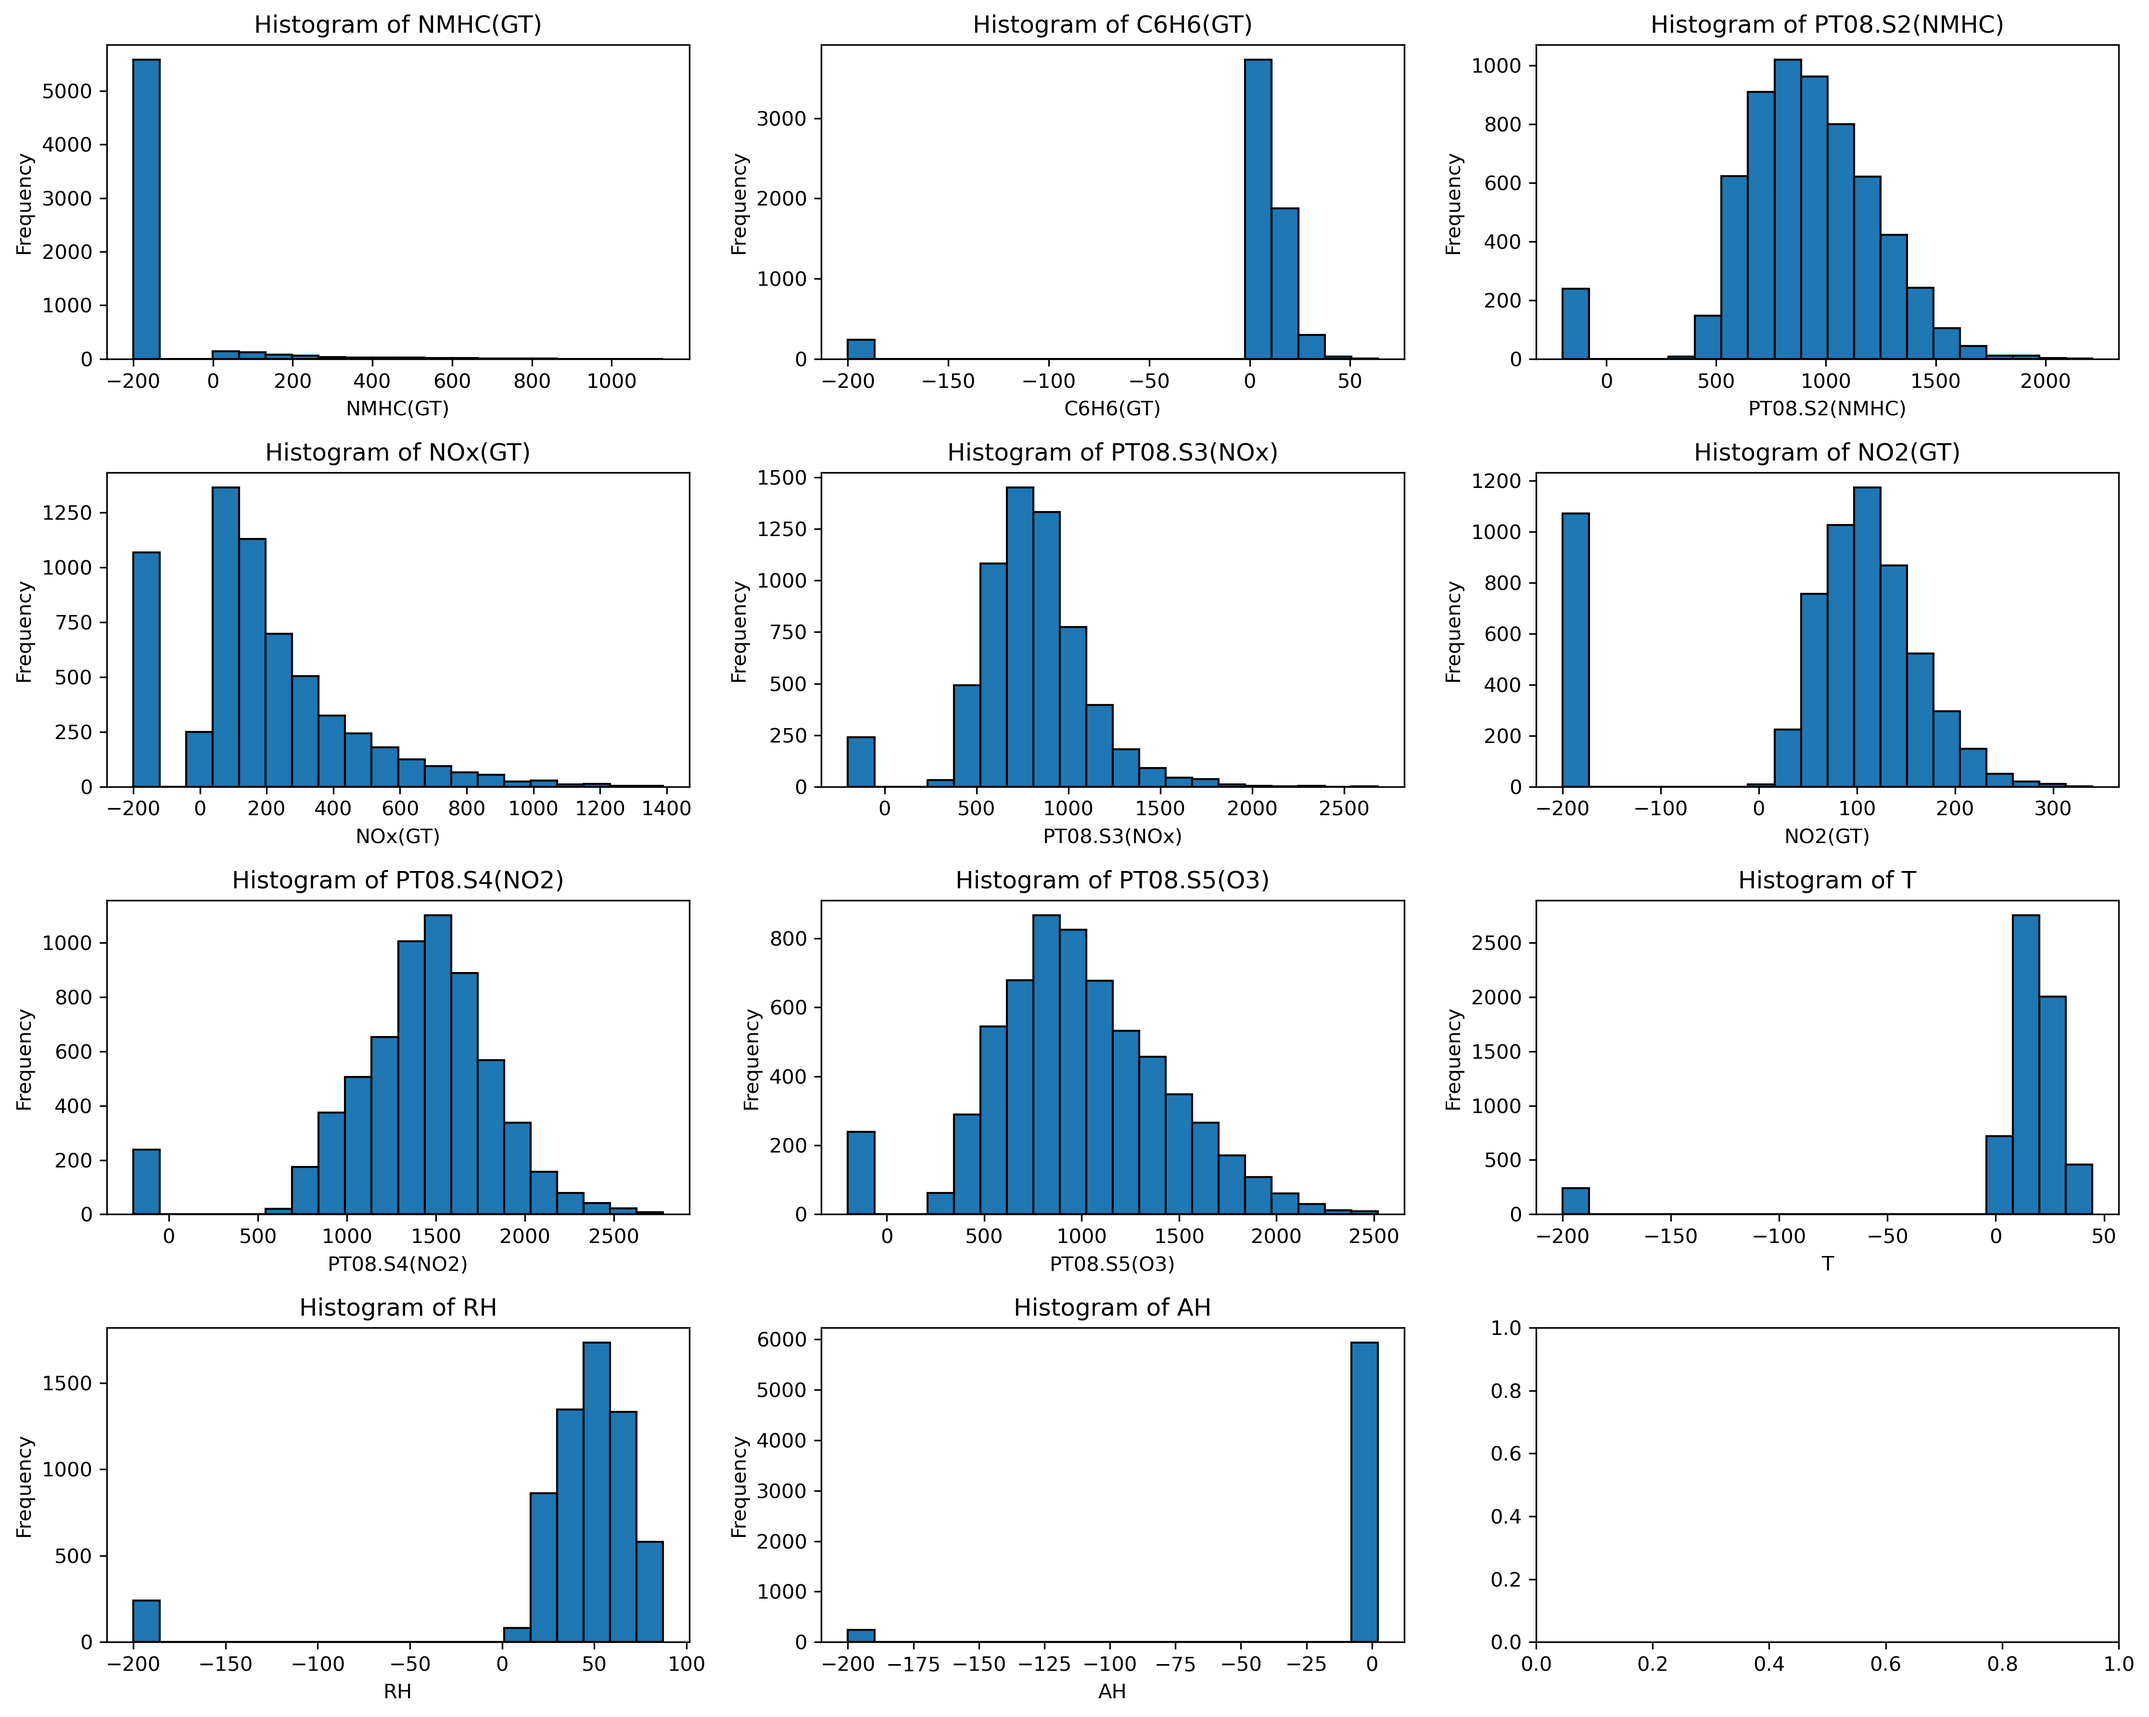
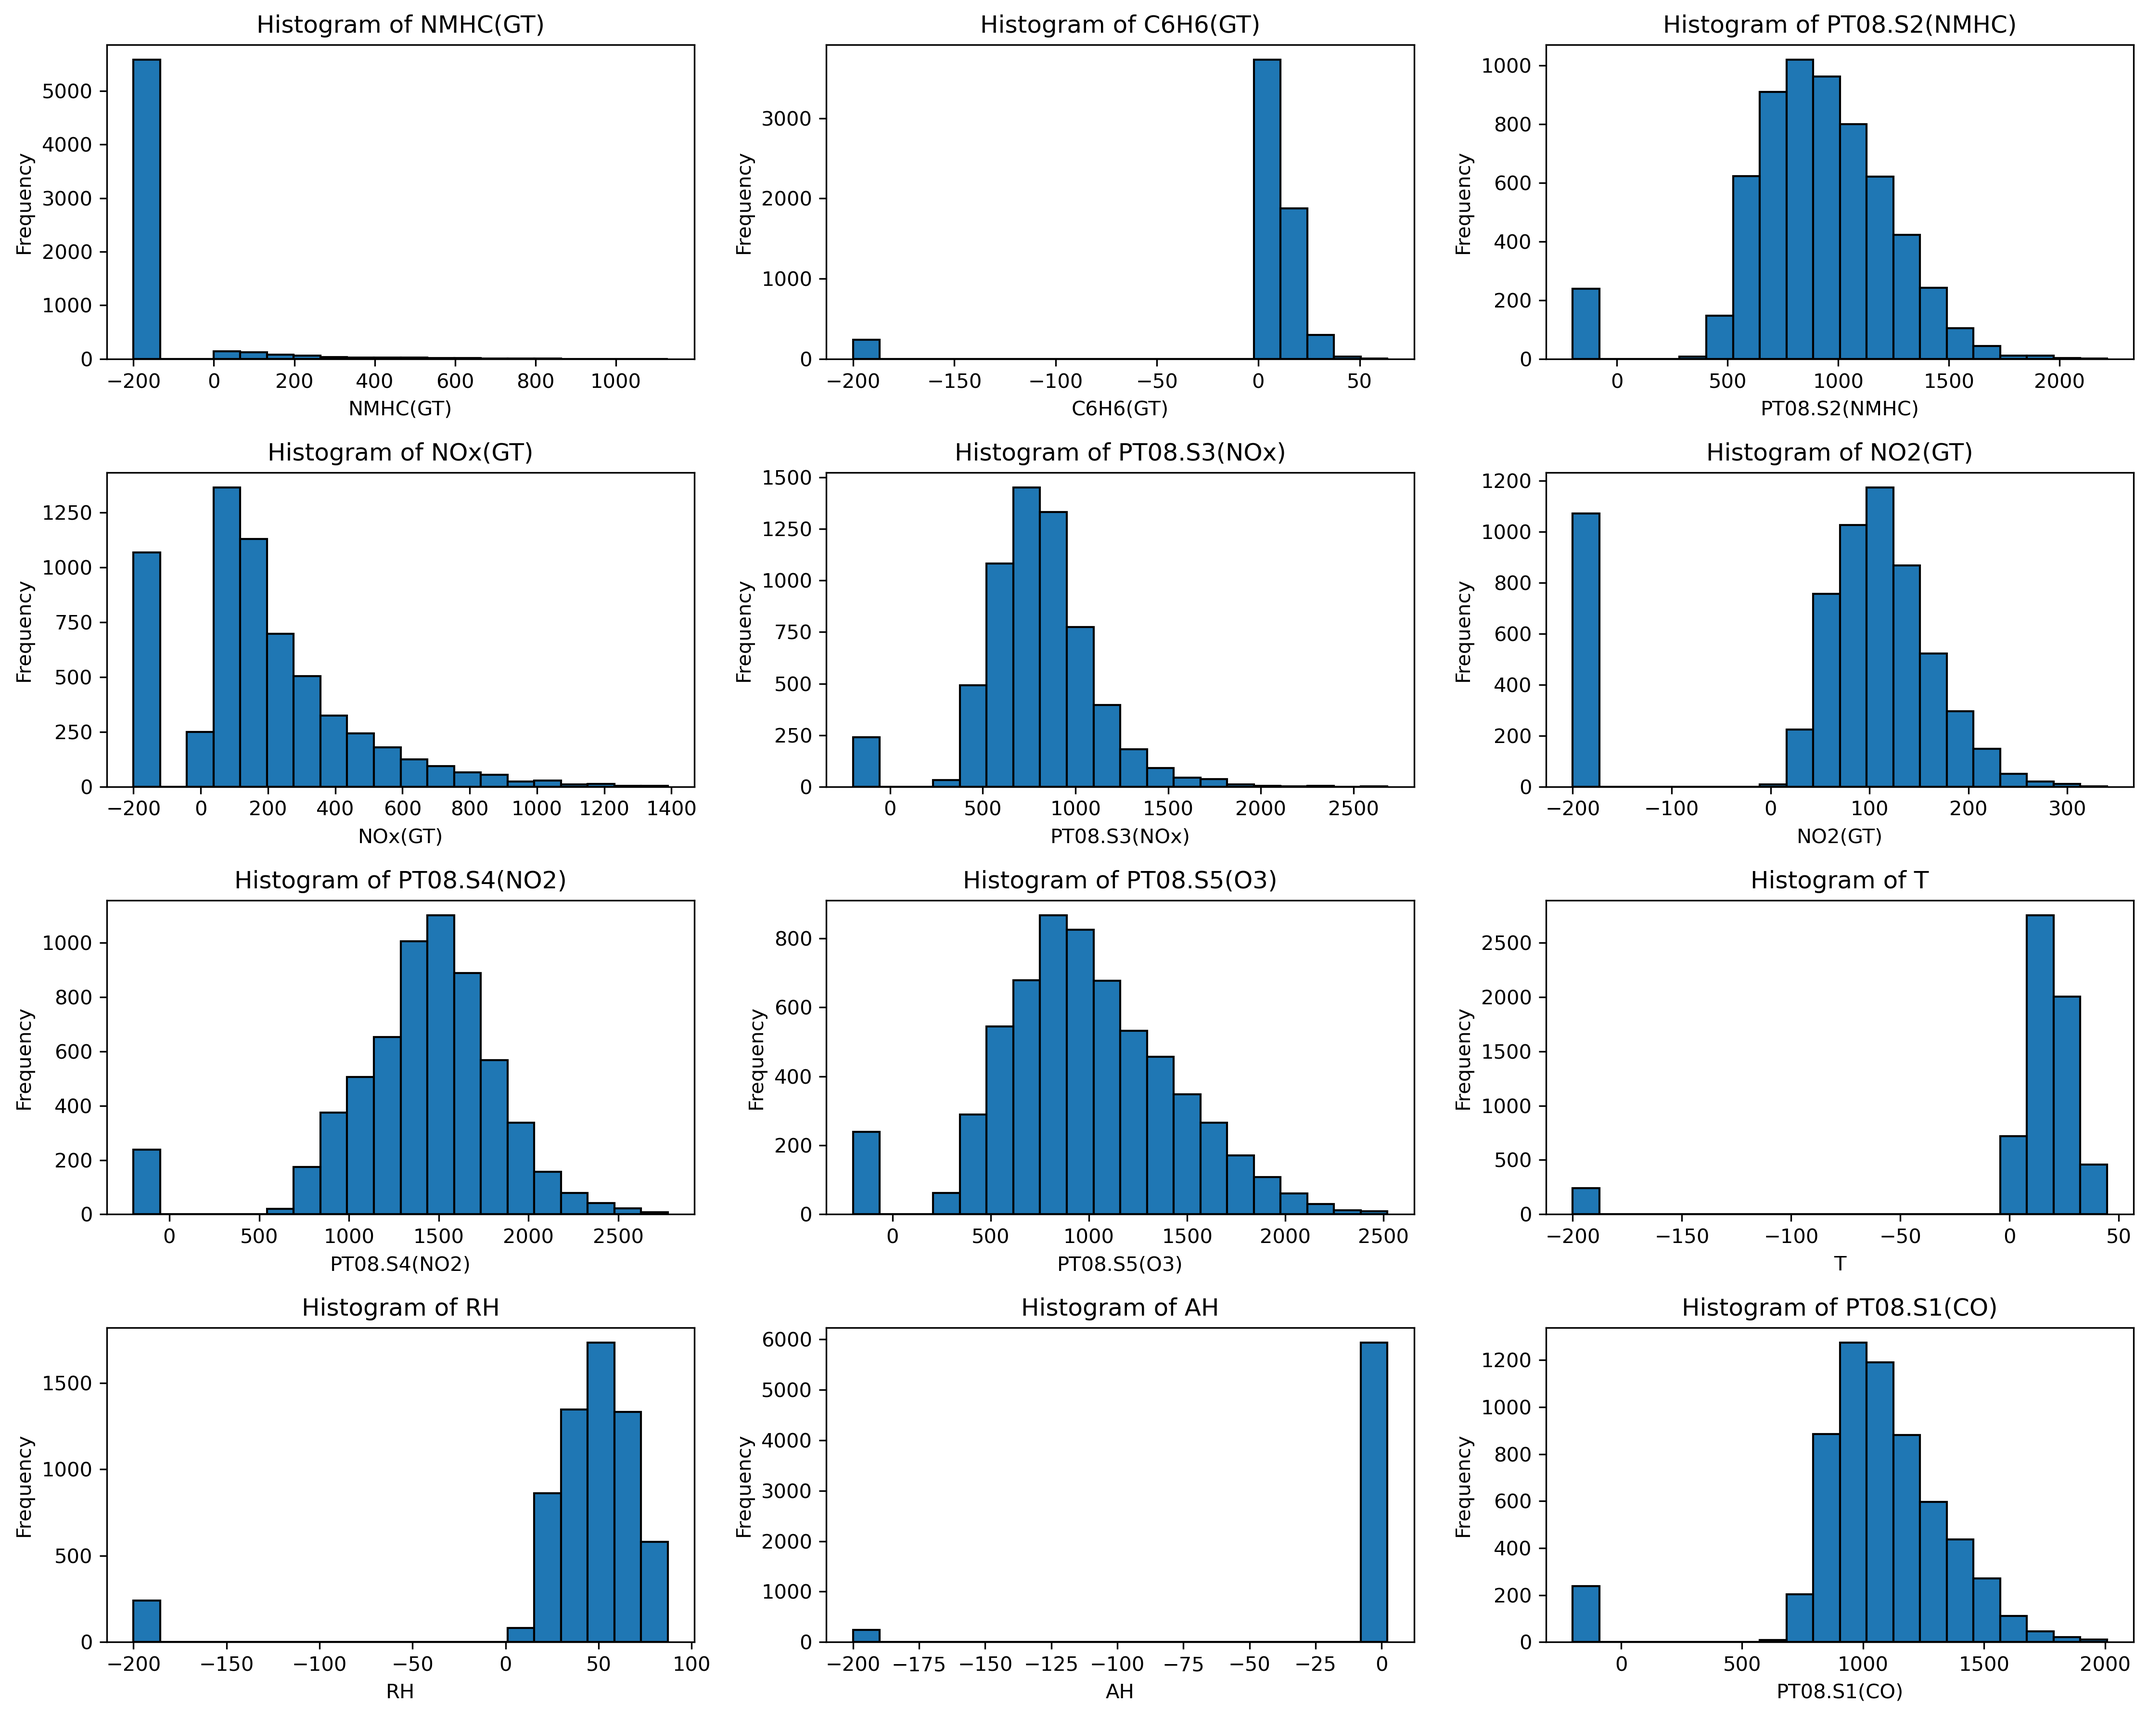
updated the code for histogram

diff --git a/HW-1/Sourabh_Pandit_code.py b/HW-1/Sourabh_Pandit_code.py
@@ -291,7 +291,14 @@ def main():
     axes = axes.flatten()  # Flatten to 1D array for easy indexing
 
     # Plot each feature
-    for i, feature in enumerate(features):
+    nfeatures = features
+    #nfeatures.append(label)
+    print (f"Type: {type(nfeatures)}")
+    print (f": {nfeatures}")
+    print (f"Type: {type(label)}")
+    print (f": {label}")
+
+    for i, feature in enumerate(df_train.columns):
         print (f"FEATURE: {feature}")
         axes[i].hist(df_train[feature], bins=20, edgecolor='black')  # Drop NaNs for clean hist
         axes[i].set_title(f'Histogram of {feature}')
